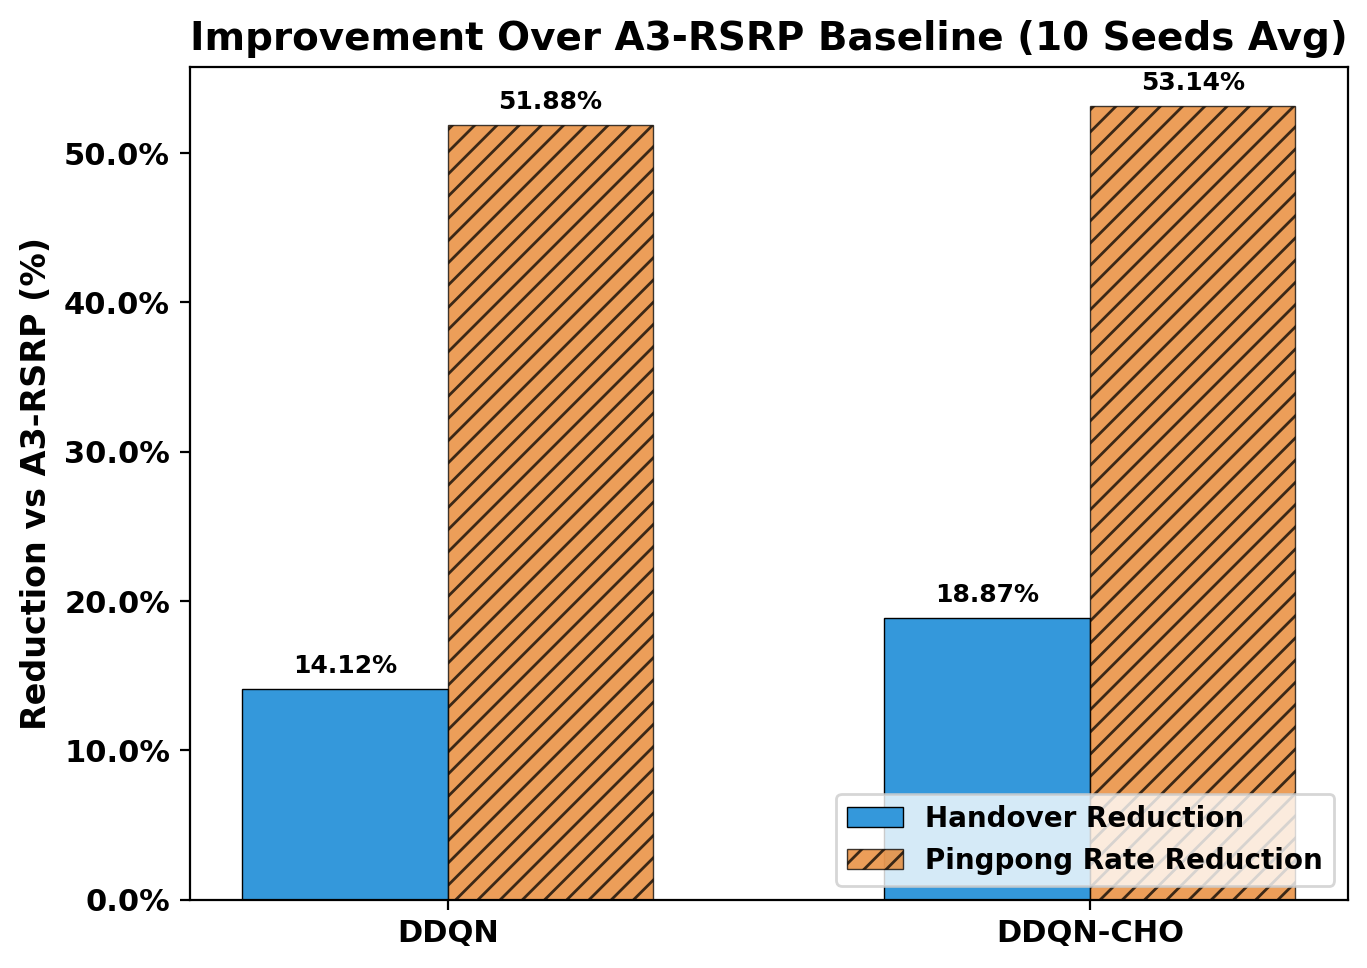
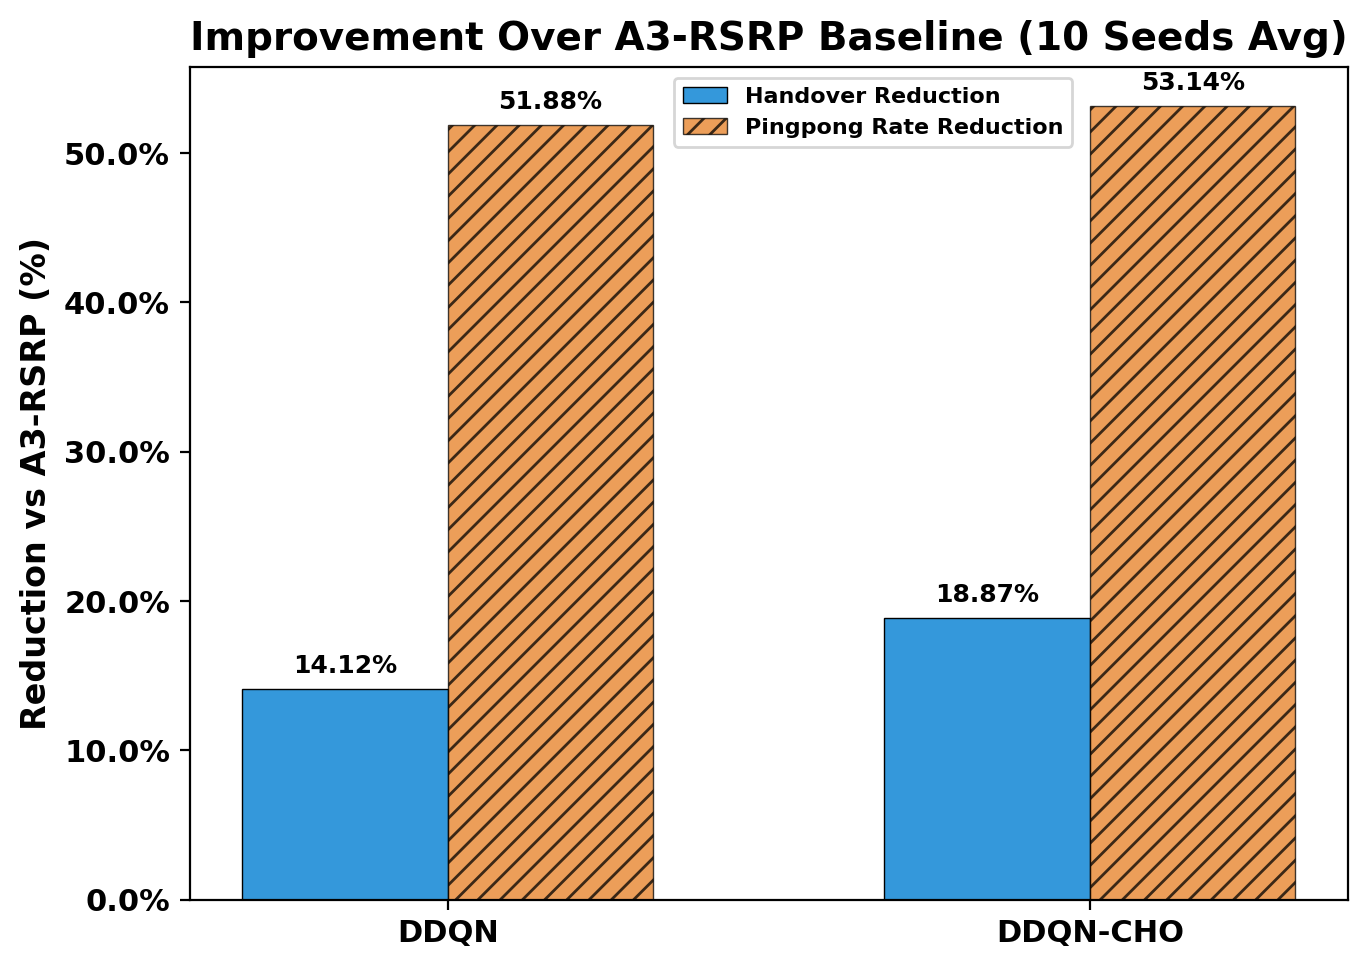
fixed plotter graphs

Changed region(s): [[0.6145, 0.8058, 0.9832, 0.9298], [0.4916, 0.062, 0.7988, 0.155]]

diff --git a/plotter/plotter.py b/plotter/plotter.py
@@ -19,18 +19,20 @@ from tensorboard.backend.event_processing.event_accumulator import EventAccumula
 # ---------------------------------------------------------------------------
 # Global style — bold, visible text on every graph
 # ---------------------------------------------------------------------------
-plt.rcParams.update({
-    "font.weight":        "bold",
-    "axes.labelweight":   "bold",
-    "axes.titleweight":   "bold",
-    "figure.titleweight": "bold",
-    "font.size":          12,
-    "axes.labelsize":     13,
-    "axes.titlesize":     15,
-    "xtick.labelsize":    11,
-    "ytick.labelsize":    11,
-    "legend.fontsize":    11,
-})
+plt.rcParams.update(
+    {
+        "font.weight": "bold",
+        "axes.labelweight": "bold",
+        "axes.titleweight": "bold",
+        "figure.titleweight": "bold",
+        "font.size": 12,
+        "axes.labelsize": 13,
+        "axes.titlesize": 15,
+        "xtick.labelsize": 11,
+        "ytick.labelsize": 11,
+        "legend.fontsize": 11,
+    }
+)
 
 # ---------------------------------------------------------------------------
 # Paths
@@ -46,6 +48,7 @@ SEED_COUNT = 10
 def _detect_timestamp() -> str:
     """Auto-detect the most recent PERF timestamp from runs directory."""
     import re
+
     pattern = re.compile(r"^PERF_\w+_LONDON_(\d{8}_\d{6})$")
     timestamps = set()
     if RUNS_DIR.is_dir():
@@ -61,6 +64,7 @@ def _detect_timestamp() -> str:
 def _detect_training_run() -> str | None:
     """Auto-detect the most recent Training run, or None if absent."""
     import re
+
     pattern = re.compile(r"^Training_(\d{8}_\d{6})$")
     matches = []
     if RUNS_DIR.is_dir():
@@ -567,7 +571,7 @@ def plot_reduction_vs_a3(csv_path: Path):
     )
     ax.set_xticks(x)
     ax.set_xticklabels(x_labels, fontsize=11)
-    ax.legend(fontsize=10, loc="lower right")
+    ax.legend(fontsize=8, loc="upper center", bbox_to_anchor=(0.59, 1.0))
 
     for bar in list(bars1) + list(bars2):
         h = bar.get_height()
@@ -723,9 +727,7 @@ def plot_rsrp_fft(csv_path: Path):
 
     ax.set_xlabel("Normalized Frequency", fontsize=12)
     ax.set_ylabel("Magnitude", fontsize=12)
-    ax.set_title(
-        "FFT of RSRP Signal Across Algorithms", fontsize=14, fontweight="bold"
-    )
+    ax.set_title("FFT of RSRP Signal Across Algorithms", fontsize=14, fontweight="bold")
     ax.legend(fontsize=11)
     ax.grid(True, alpha=0.3)
     fig.tight_layout()
@@ -878,9 +880,15 @@ def plot_rsrp_cloud(csv_path: Path):
         )
         # Overlay mean marker
         ax.scatter(
-            i, np.mean(vals), color=ALGO_COLORS[algo],
-            s=120, marker="D", edgecolors="black", linewidths=0.8,
-            zorder=5, label=f"{ALGO_DISPLAY[algo]} (mean={np.mean(vals):.4f})",
+            i,
+            np.mean(vals),
+            color=ALGO_COLORS[algo],
+            s=120,
+            marker="D",
+            edgecolors="black",
+            linewidths=0.8,
+            zorder=5,
+            label=f"{ALGO_DISPLAY[algo]} (mean={np.mean(vals):.4f})",
         )
 
     ax.set_xticks(range(len(ALGORITHMS)))
@@ -920,19 +928,29 @@ def plot_rsrp_raincloud(csv_path: Path):
 
         # Half-violin (KDE) on top side
         from scipy.stats import gaussian_kde
+
         kde = gaussian_kde(vals, bw_method=0.3)
         y_range = np.linspace(vals.min(), vals.max(), 300)
         density = kde(y_range)
         density = density / density.max() * 0.35  # scale width
         ax.fill_betweenx(
-            y_range, i - density, i,
-            color=color, alpha=0.5, edgecolor="black", linewidth=0.5,
+            y_range,
+            i - density,
+            i,
+            color=color,
+            alpha=0.5,
+            edgecolor="black",
+            linewidth=0.5,
         )
 
         # Boxplot on center
         bp = ax.boxplot(
-            vals, positions=[i], widths=0.08, vert=True,
-            patch_artist=True, showfliers=False,
+            vals,
+            positions=[i],
+            widths=0.08,
+            vert=True,
+            patch_artist=True,
+            showfliers=False,
             boxprops=dict(facecolor=color, alpha=0.9, edgecolor="black"),
             medianprops=dict(color="black", linewidth=1.5),
             whiskerprops=dict(color="black", linewidth=0.8),
@@ -942,8 +960,12 @@ def plot_rsrp_raincloud(csv_path: Path):
         # Jittered strip on bottom side
         jitter = rng.uniform(0.05, 0.3, size=len(vals))
         ax.scatter(
-            i + jitter, vals,
-            color=color, alpha=0.06, s=4, edgecolors="none",
+            i + jitter,
+            vals,
+            color=color,
+            alpha=0.06,
+            s=4,
+            edgecolors="none",
         )
 
     ax.set_xticks(range(len(ALGORITHMS)))
